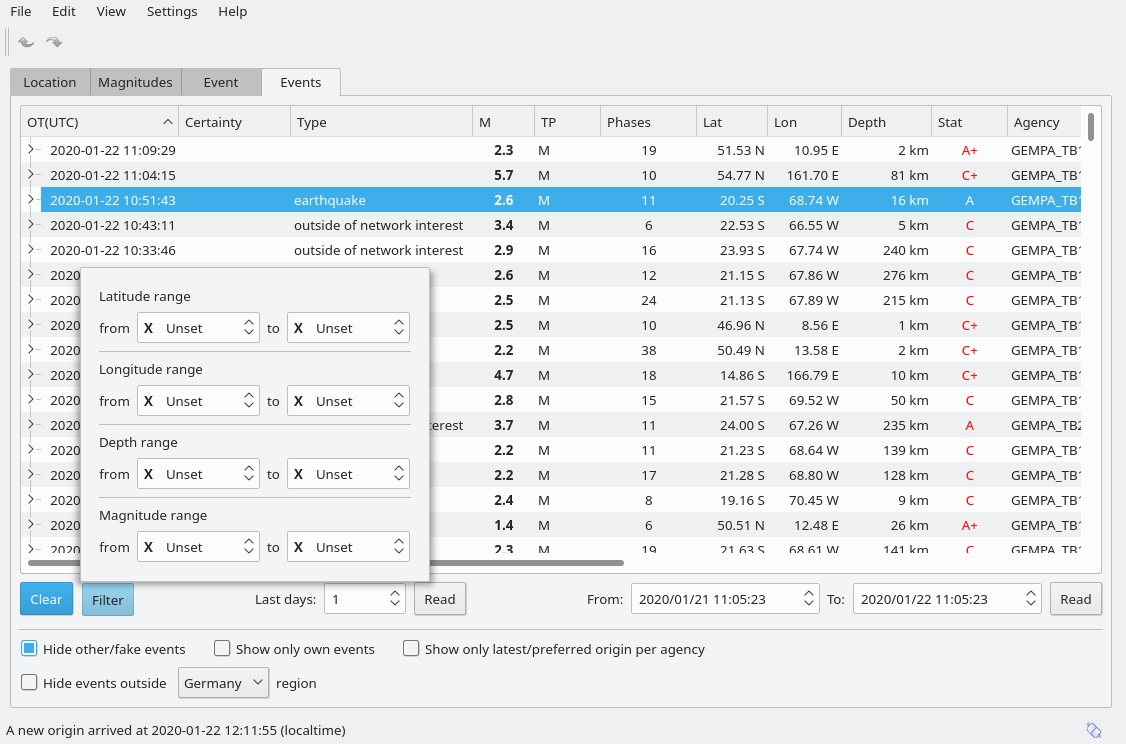
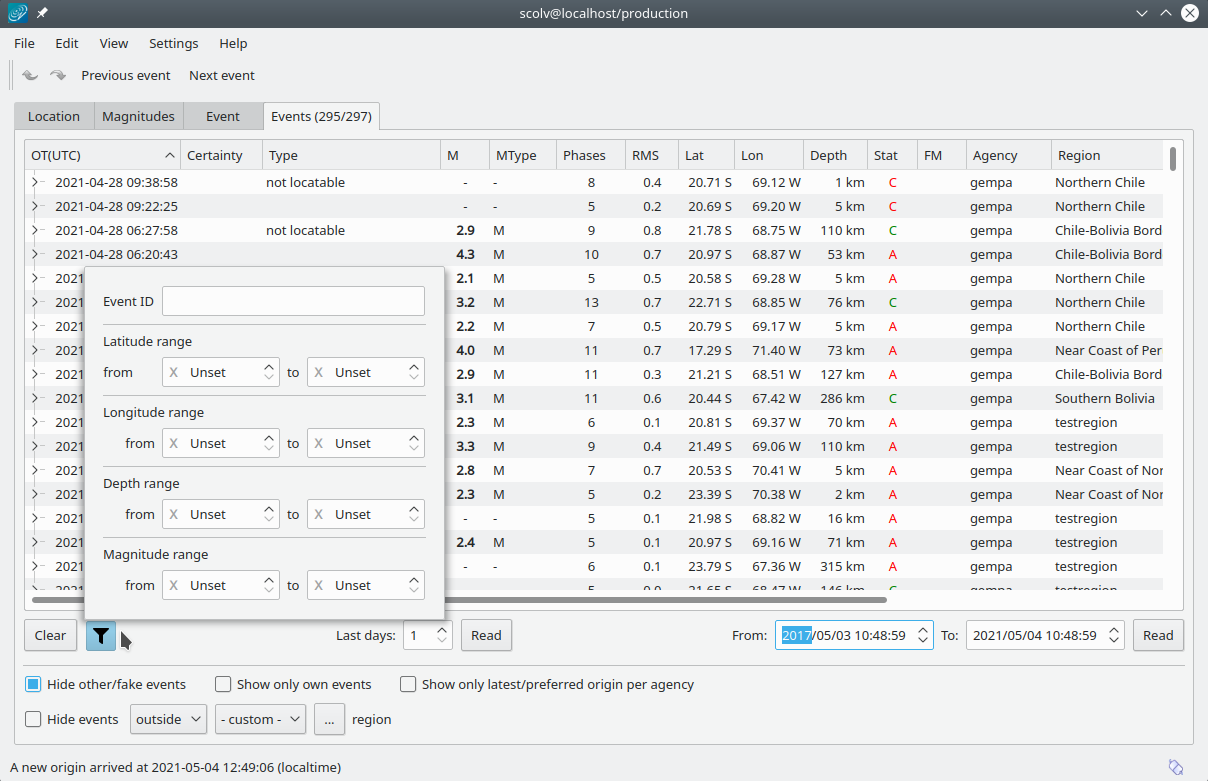
[scolv] Update documentation of event filters

Changed region(s): [[0.0, 0.0927, 0.9947, 0.9892], [0.0, 0.0, 1.0, 0.0618], [0.9636, 0.9274, 0.9947, 0.9892]]

diff --git a/apps/gui-qt/scolv/descriptions/scolv.rst b/apps/gui-qt/scolv/descriptions/scolv.rst
@@ -866,9 +866,14 @@ selected in the Origin list.
 Events tab
 ==========
 
-The Events tab gives an overview of the events in a defined time span. Shown events
-are updated in real time as new events arrive in |scname| or are loaded from the database.
-When starting scolv with the option **--ep** events can also be loaded from an XML
+The Events tab gives an overview of the events in the defined time span. Listed
+events are updated in real time as new events arrive in |scname| or are loaded
+from the database. The title of the tab also indicates the number of shown vs.
+the total number of loaded events. The numbers can be different because events
+can be :ref:`hidden from the list by filtering <scolv-events-filtering>`.
+
+
+When starting scolv with the option **--offline**, events can also be loaded from an XML
 file using the File menu in the main window.
 
 .. _fig-scolv-events:
@@ -941,57 +946,88 @@ with :confval:`eventlist.visibleColumns` in the global configuration
                               Depth, DType, Stat, FM, Author, Agency, Region, ID
 
 
+.. _scolv-events-filtering:
+
 Event filtering
 ---------------
 
-Database requests filters can be set and adjusted in
-the filter parameter window which opens when pressing the Filter button. Press *Read*
-to reload the events list based on the filter parameters. Filter parameters
-are :ref:`global` parameters which can be preset by adjusting the configuration parameters
-:confval:`eventlist.filter.database.*`. **The request filter only concerns the
-database request for loading events. It does not update the current list.**
+Database request filters can be applied interactively or automatically by
 
-The event list also contains a checkbox *Hide other/fake events*. If checked all
-events with type *not existing* or *other* are hidden. If unchecked they are
-shown. **Pressing the Hide button affects the currently loaded list.**
+* **Interactive custom request filters**: You may set and adjust a custom request
+  filter** in the filter parameter window which opens when pressing the Filter
+  button. Press *Read* to reload the events list based on the filter parameters.
+  **The interactive custom request filter only concerns the
+  database request for loading events. It does not update the current list.**
+  Use the :ref:`global` for presetting the values (:file:`scolv.cfg` or
+  :file:`global.cfg`), e.g.:
 
-It is possible to configure the event types used for this filter as well
-as the label text of the checkbox. Use the global configuration for setting
-the parameters (:file:`scolv.cfg` or :file:`global.cfg`):
+  .. code-block:: sh
 
-.. code-block:: sh
+     eventlist.filter.database.minlat = 51.0
 
-   # Define the event types to be filtered
-   eventlist.filter.types.blacklist = "not existing", "other",\
-                                      "outside of network interest"
+* **Preset filters** based on
 
-   # Define the label of the button to filter the events
-   eventlist.filter.types.label = "Hide fake events"
+  * **Event type:** Activate by check box *Hide other/fake events*. If checked, all
+    events with the configured types are hidden from the list. The default event types
+    to hide are *not existing* and *other* are hidden. If unchecked, the filtering
+    is inactive and the events are shown. **Pressing the Hide button only affects
+    the currently loaded list.** Configure the event types used for this filter as well
+    as the label text for the checkbox.
+    Use the :ref:`global` for presetting the values s (:file:`scolv.cfg` or :file:`global.cfg`):
 
-   # Define the default behavior
-   eventlist.filter.types.enabled = true
+    .. code-block:: sh
 
+       # Define the event types to be filtered
+       eventlist.filter.types.blacklist = "not existing", "other",\
+                                          "outside of network interest"
 
-Another option to filter events is by agencyID. The button *Show only own events*
-will hide all events where the preferred origins agencyID is not the configured
-:confval:`agencyID` of scolv. This is the default behavior which can be customized
-(:file:`scolv.cfg` or :file:`global.cfg`):
+       # Define the label of the button to filter the events
+       eventlist.filter.types.label = "Hide fake events"
 
-.. code-block:: sh
+       # Define the default behavior
+       eventlist.filter.types.enabled = true
 
-   # Set the preferred agencyIDs to GFZ and EMSC
-   eventlist.filter.agencies.whitelist = GFZ, EMSC
+  * **Agency**: Activate by check boxes *Show only own origin* and/or "Show only
+    latest/preferred origin per agency". The button *Show only own events*
+    will hide all events where the preferred origins agencyID is not the configured
+    :confval:`agencyID` of scolv. This is the default behavior which can be customized
+    (:file:`scolv.cfg` or :file:`global.cfg`):
 
-   # Set type to 'origins' which means that an event will pass the filter if
-   # at least one origin is from a preferred agency defined with the whitelist
-   # above. The default type is 'events' which checks only the events preferred
-   # origin.
-   eventlist.filter.agencies.type = origins
-   eventlist.filter.agencies.label = "Show only my preferred events"
+    .. code-block:: sh
 
-   # Enable this filter initially. If this option is not used the filter
-   # is disabled by default.
-   eventlist.filter.agencies.enabled = true
+       # Set the preferred agencyIDs to GFZ and EMSC
+       eventlist.filter.agencies.whitelist = GFZ, EMSC
+
+       # Set type to 'origins' which means that an event will pass the filter if
+       # at least one origin is from a preferred agency defined with the whitelist
+       # above. The default type is 'events' which checks only the events preferred
+       # origin.
+       eventlist.filter.agencies.type = origins
+
+       # Defines the text of the option "Show only own events".
+       eventlist.filter.agencies.label = "Show only own events"
+
+       # Enable this filter initially. If this option is not used the filter
+       # is disabled by default.
+       eventlist.filter.agencies.enabled = true
+
+  * **Source region:** Select a source region, activate "Hide events" and choose to
+    hide events inside or outside the region.
+    **Pressing the Hide button only affects the currently loaded list.**
+    Pre-defined regions can be configured in the global configuration
+    (:file:`scolv.cfg`, :file:`global.cfg`):
+
+    .. code-block:: sh
+
+       # Configured a list of regions that can be used as filter of the result set.
+       eventlist.regions = chile
+
+       # Defines the name of the region that shows up in the listbox.
+       eventlist.region.chile.name = Chile
+
+       # Defines a rectangular region with a list of 4 values: latmin, lonmin, latmax,
+       # lonmax.
+       eventlist.region.chile.rect = -40, -80, -10, -60
 
 
 Custom actions
